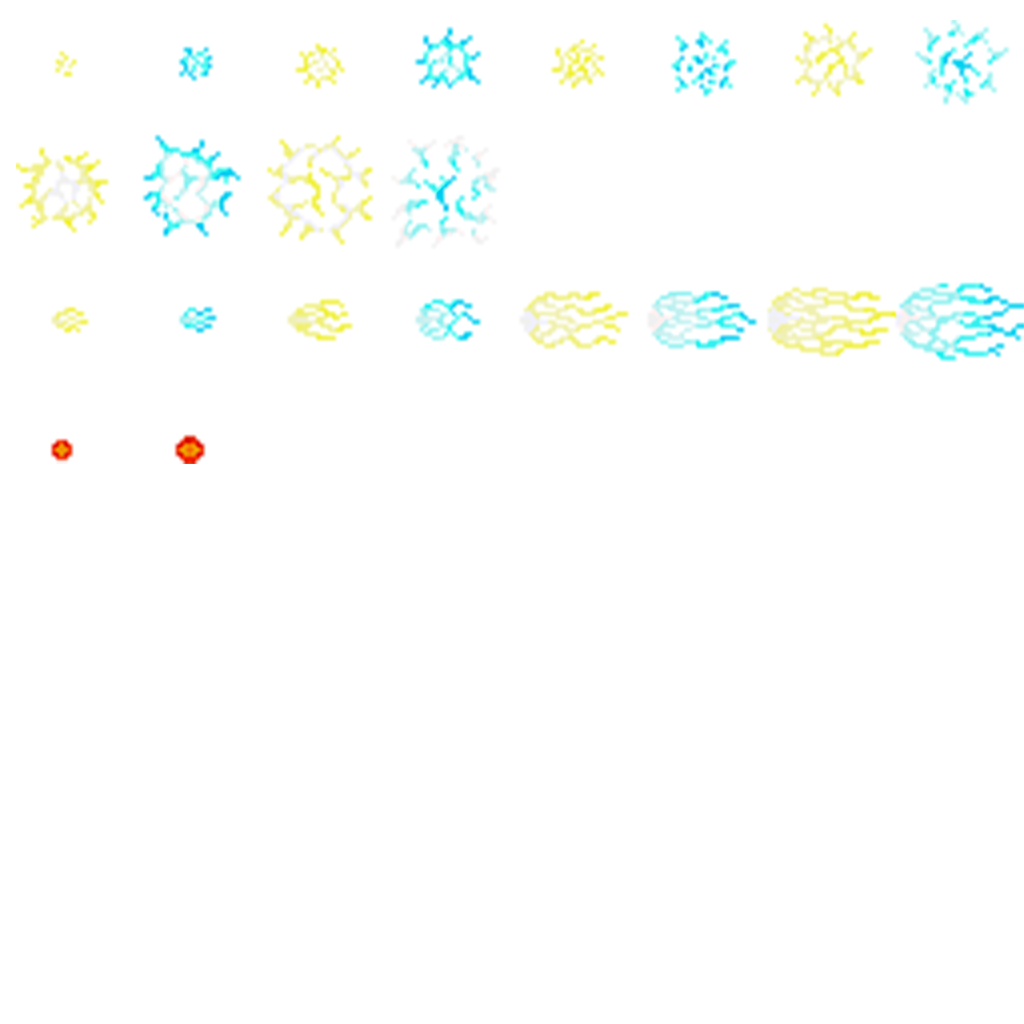
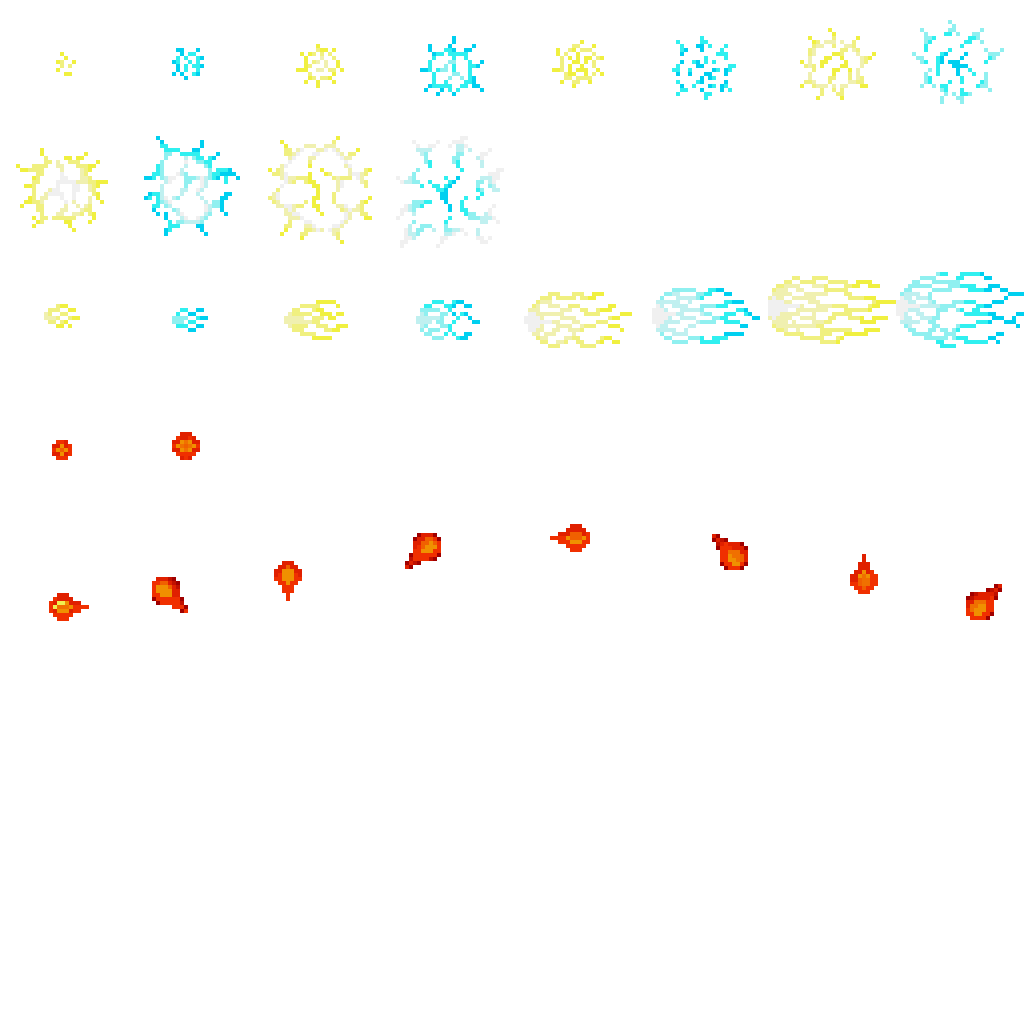
画像にもんもたろーの念力追加

diff --git a/Solution/PsychicMomotaro.cpp b/Solution/PsychicMomotaro.cpp
@@ -22,5 +22,5 @@ void PsychicMomotaro::act( ) {
 	}
 
 	int idx = _motion_count;
-	setChipUV( idx / 4 % 2, 3 );
+	setChipUV( idx % 8, 4 );
 }
